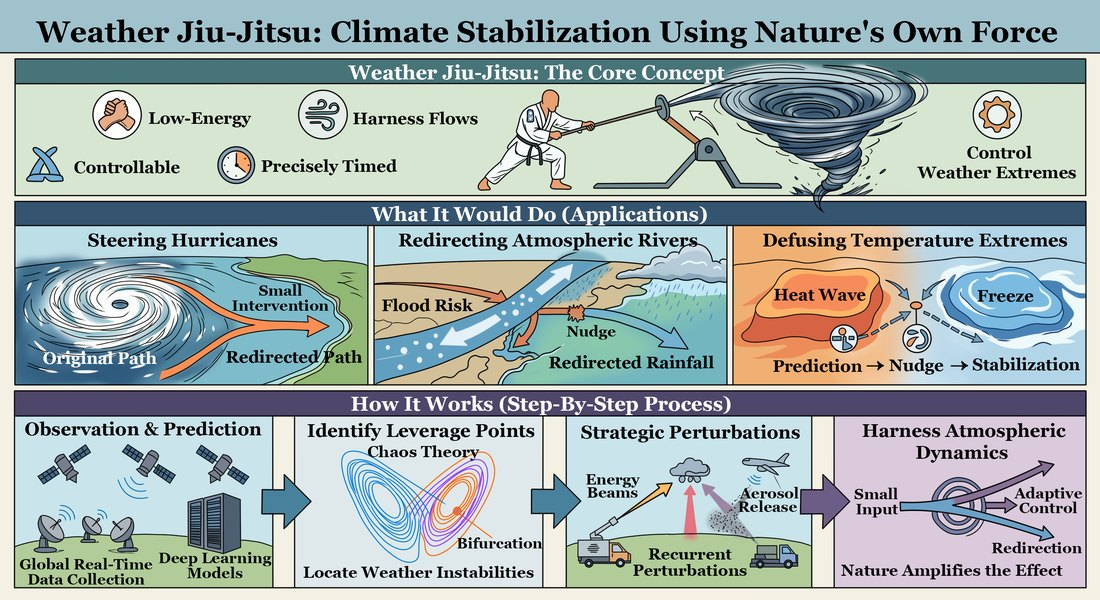
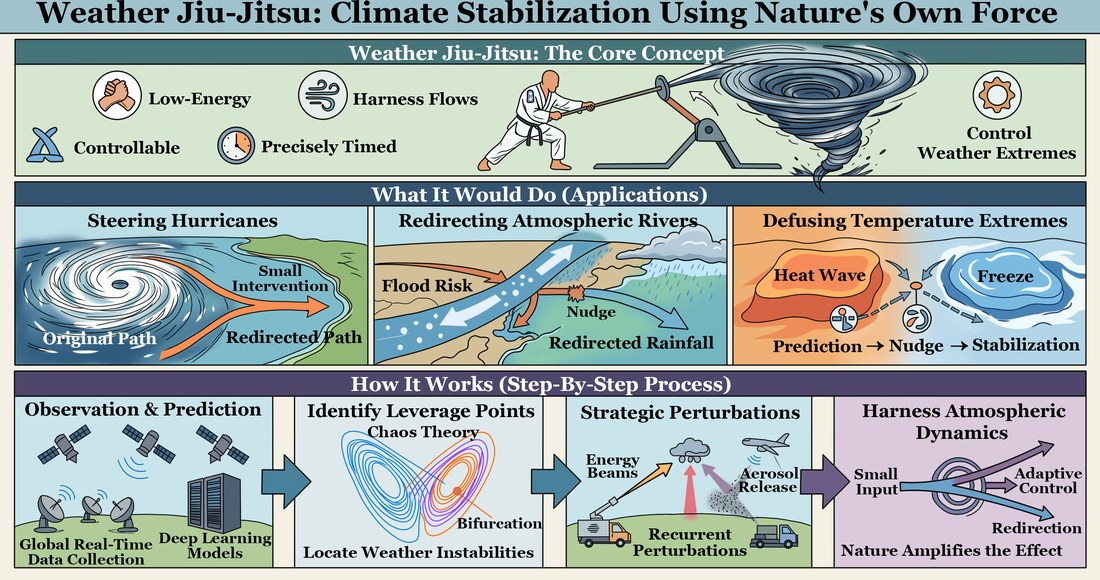
Size figure plates to their images; recrop FTLE and trim WJJ
The empty box came from the plate stretching to the card height, so a
wide figure sat in a tall panel. The plate now sizes to its image and
centres vertically, which removes the whitespace for every card without
depending on the figure's aspect ratio.

FTLE recropped from 2.36:1 to 1.49:1 — keeps both the Pacific-corridor
and Caribbean perturbation sites, drops the colourbar and the title band
(a horizontal crop would have clipped the title mid-word). WJJ
infographic border-trimmed; its panels are not safe to crop into.

Claude-Session: https://claude.ai/code/session_01VQRwQxD7wGqEjXuAqsmFs3

diff --git a/style.css b/style.css
@@ -195,21 +195,22 @@ h3.sub:first-of-type { margin-top: 0; }
   /* White plate in both themes. The figures are all white-background plots, so a
      matching panel makes the letterboxing invisible instead of leaving a small
      bright rectangle floating in a dark column. */
+  /* Sized to the image, not stretched to the card height. Stretching was what
+     produced the tall empty plate beside the wide figures. */
   flex: 0 0 290px;
   width: 290px;
-  align-self: stretch;
-  display: flex;
-  align-items: center;
-  justify-content: center;
+  align-self: center;
+  display: block;
   background: #fff;
-  border-right: 1px solid var(--border);
-  padding: 10px;
-  min-height: 150px;
+  border-radius: 4px;
+  margin: 16px;
+  overflow: hidden;
+  line-height: 0;
 }
-.research-figlink:hover { box-shadow: inset 0 0 0 2px var(--accent); }
 /* The hydro figure is rendered on a dark ground; give its plate a matching one
    so it doesn't sit as a dark rectangle inside a white panel. */
 .research-figlink.is-dark { background: #14181c; }
+.research-figlink:hover { box-shadow: 0 0 0 2px var(--accent); }
 
 .research-img {
   /* contain, not cover: these are figures, and cover was slicing the labels
@@ -222,7 +223,7 @@ h3.sub:first-of-type { margin-top: 0; }
   display: block;
 }
 
-.research-content { padding: 18px 20px; display: flex; flex-direction: column; gap: 9px; }
+.research-content { padding: 18px 20px 18px 4px; display: flex; flex-direction: column; gap: 9px; }
 .research-content h3 {
   font-family: 'Source Serif 4', Georgia, serif;
   font-size: 17px;
@@ -343,8 +344,7 @@ footer p { font-size: 13px; color: var(--muted); }
   .news-more { padding-left: 0; }
   .research-card-main { flex-direction: column; }
   .research-figlink {
-    flex: 0 0 auto; width: 100%; height: 190px; min-height: 0;
-    border-right: none; border-bottom: 1px solid var(--border);
+    flex: 0 0 auto; width: auto; margin: 14px 14px 0;
   }
   .research-content { padding: 16px; }
   .research-footer { padding: 10px 16px 14px; }
